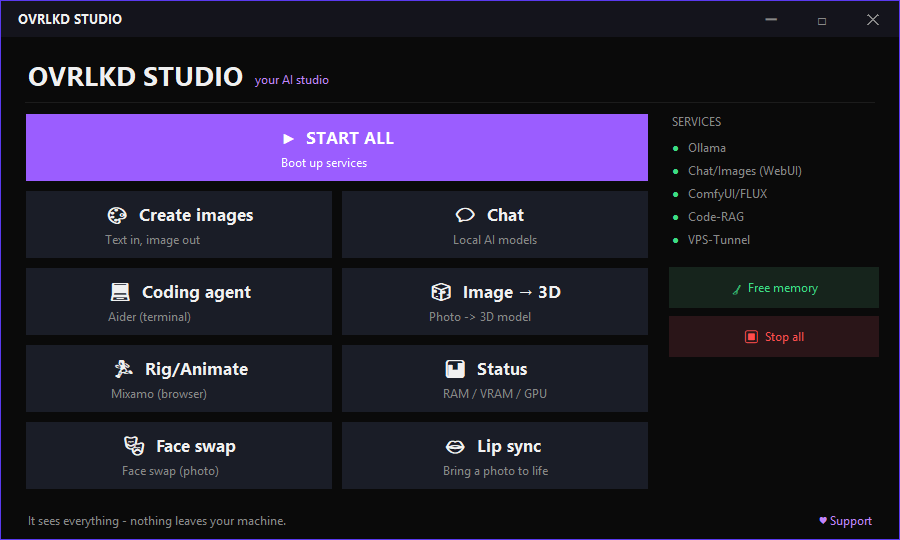
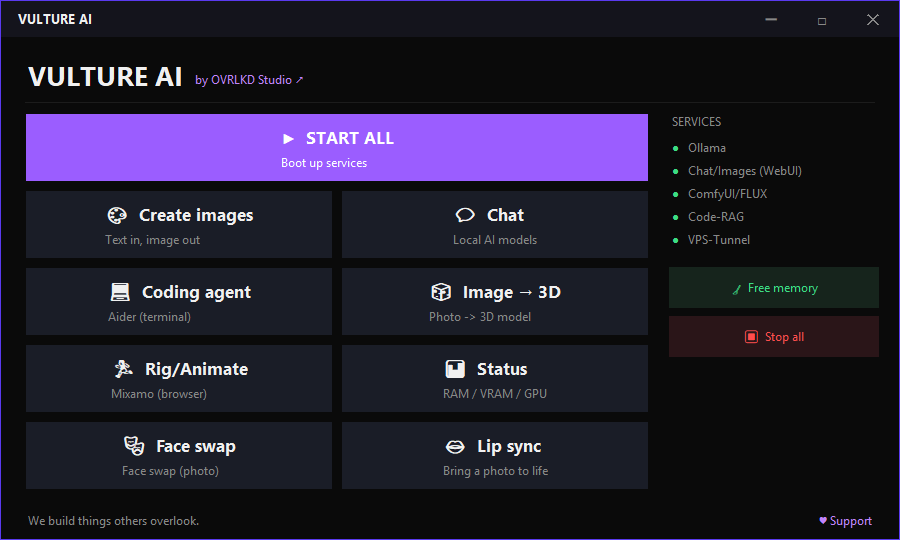
Rebrand app to Vulture AI (by OVRLKD Studio); portable .cmd launchers + helpers via batenv; branded screenshot

Changed region(s): [[0.0311, 0.1185, 0.3733, 0.1778], [0.0311, 0.9481, 0.3111, 0.9778], [0.0, 0.0, 0.1556, 0.0593]]

diff --git a/vulture/batenv.py b/vulture/batenv.py
@@ -1,0 +1,77 @@
+# -*- coding: utf-8 -*-
+"""Emit ``set "VAR=value"`` lines so the ``.cmd`` launchers get portable paths.
+
+Batch files cannot read ``config.json`` nor scan the drives for a ComfyUI /
+Ollama / Python install, so every OVRLKD ``.cmd`` sources this tiny helper at
+the top::
+
+    set "PYEXE=python"
+    where python >nul 2>nul || set "PYEXE=%LOCALAPPDATA%\\Programs\\Python\\Python311\\python.exe"
+    for /f "usebackq delims=" %%L in (`"%PYEXE%" "%~dp0vulture\\batenv.py" 2^>nul`) do %%L
+
+After that loop the launcher can use ``%COMFY_PY%``, ``%OUTPUT_DIR%``,
+``%OLLAMA_MODELS%``, ``%COMFY_PORT%`` etc. -- all resolved by
+:mod:`vulture.config` (built-in defaults <- auto-detect <- ``config.json``), so a
+fresh clone works on any machine.
+
+Only ``set "..."`` lines are written to *stdout*; any diagnostics go to
+*stderr* (which the launchers redirect to ``nul``) so they never pollute the
+batch ``for /f`` capture.  The helper never raises out to the launcher: on any
+failure it prints nothing and exits non-zero, leaving the variables unset so the
+``.cmd`` can fall back / fail loudly on its own.
+"""
+from __future__ import annotations
+
+import os
+import sys
+
+# Make the ``vulture`` package importable no matter the current directory
+# (the launchers call us as "%~dp0vulture\batenv.py" from wherever they run).
+_REPO_ROOT = os.path.dirname(os.path.dirname(os.path.abspath(__file__)))
+if _REPO_ROOT not in sys.path:
+    sys.path.insert(0, _REPO_ROOT)
+
+from vulture.config import get_config
+
+
+def _emit(name: str, value: object) -> str:
+    """Return one batch ``set "NAME=VALUE"`` line (quoted -> spaces are safe)."""
+    return f'set "{name}={value}"'
+
+
+def main() -> int:
+    cfg = get_config()
+
+    # name -> resolved value.  Paths come out OS-normalised (back slashes on
+    # Windows); ports are plain integers.  Order is cosmetic only.
+    pairs = [
+        # -- filesystem paths --
+        ("COMFY_PY",      cfg.comfy_python),
+        ("COMFY_DIR",     cfg.comfy_dir),
+        ("OUTPUT_DIR",    cfg.output_dir),
+        ("OLLAMA_MODELS", cfg.ollama_models_dir),
+        ("OLLAMA_EXE",    cfg.ollama_exe),
+        ("AIDER_PY",      cfg.aider_python),
+        ("SYSTEM_PY",     cfg.system_python),
+        ("TOOLS_DIR",     cfg.tools_dir),
+        # -- ports --
+        ("COMFY_PORT",    cfg.comfy_port),
+        ("WEBUI_PORT",    cfg.webui_port),
+        ("RAG_PORT",      cfg.rag_port),
+        ("TUNNEL_PORT",   cfg.tunnel_port),
+        ("OLLAMA_PORT",   cfg.ollama_port),
+    ]
+
+    # print() -> Windows text mode turns "\n" into CRLF, which batch for/f reads
+    # cleanly.  One "set" per line.
+    for name, value in pairs:
+        print(_emit(name, value))
+    return 0
+
+
+if __name__ == "__main__":
+    try:
+        sys.exit(main())
+    except Exception as exc:  # never take the launcher down with us
+        print(f"[batenv] {exc}", file=sys.stderr)
+        sys.exit(1)

diff --git a/vulture/config.py b/vulture/config.py
@@ -291,6 +291,30 @@ def _detect_tripo(drives: List[str]) -> Dict[str, str]:
     return {}
 
 
+def _detect_aider_python(drives: List[str]) -> str:
+    """Locate the Python of an optional Aider coding-agent venv.
+
+    Mirrors the ``ai-coder\\venv`` layout the KI-Coder launcher expects; falls
+    back to a few common variants so a fresh clone finds it without editing
+    ``config.json``.
+    """
+    home = os.path.expanduser("~")
+    rel = [
+        r"ai-coder\venv\Scripts\python.exe",
+        r"ai-coder\.venv\Scripts\python.exe",
+        r"aider\venv\Scripts\python.exe",
+    ]
+    candidates: List[str] = []
+    for d in drives:
+        candidates += [os.path.join(d, r) for r in rel]
+    candidates += [
+        os.path.join(home, "ai-coder", "venv", "Scripts", "python.exe"),
+        # POSIX venvs (for completeness on non-Windows)
+        *[os.path.join(d, "ai-coder", "venv", "bin", "python") for d in drives],
+    ]
+    return _first_existing(candidates)
+
+
 def _detect_tools_dir(drives: List[str]) -> str:
     """Locate the optional ``ai-memory-tools`` folder (WebUI / Code-RAG launchers)."""
     home = os.path.expanduser("~")
@@ -331,6 +355,10 @@ def autodetect() -> Dict[str, Any]:
     sys_py = _detect_system_python()
     if sys_py:
         paths["system_python"] = sys_py
+
+    aider_py = _detect_aider_python(drives)
+    if aider_py:
+        paths["aider_python"] = aider_py
 
     tools = _detect_tools_dir(drives)
     if tools:
@@ -768,6 +796,7 @@ if __name__ == "__main__":
         ("ollama_exe", cfg.ollama_exe),
         ("ollama_models_dir", cfg.ollama_models_dir),
         ("system_python", cfg.system_python),
+        ("aider_python", cfg.aider_python),
         ("tripo_dir", cfg.tripo_dir),
         ("host", cfg.host),
         ("comfy_api", cfg.comfy_api),

diff --git a/studio.py b/studio.py
@@ -380,7 +380,7 @@ def generate(engine, model_file, prompt, w, h, hires, on_status, on_image):
         on_status(f"Error: {e}")
 
 # ---------------- GUI ----------------
-root=tk.Tk(); root.title("OVRLKD Studio AI"); root.configure(bg=BG)
+root=tk.Tk(); root.title("Vulture AI"); root.configure(bg=BG)
 root.geometry("900x540+140+80"); root.minsize(820,500); root.resizable(True,True)
 
 # --- Dark-purple ttk.Combobox theming: field + readonly state + dropdown popup ---
@@ -479,12 +479,13 @@ def open_support_window():
     link=tk.Label(win,text=SUPPORT_URL,font=small_f,bg=BG,fg=SUB,cursor="hand2")
     link.pack(pady=(10,12)); link.bind("<Button-1>",lambda e:webbrowser.open(SUPPORT_URL))
 
-make_frameless(root, "OVRLKD STUDIO", root.destroy)
+make_frameless(root, "VULTURE AI", root.destroy)
 
 # ---- Kopfzeile ----
 head=tk.Frame(root,bg=BG); head.pack(fill="x",padx=24,pady=(16,6))
-tk.Label(head,text="OVRLKD STUDIO",font=title_f,bg=BG,fg=FG).pack(side="left")
-tk.Label(head,text="  your AI studio",font=sub_f,bg=BG,fg=ACCENT_LT).pack(side="left",pady=(10,0))
+tk.Label(head,text="VULTURE AI",font=title_f,bg=BG,fg=FG).pack(side="left")
+_by=tk.Label(head,text="  by OVRLKD Studio ↗",font=sub_f,bg=BG,fg=ACCENT_LT,cursor="hand2"); _by.pack(side="left",pady=(10,0))
+_by.bind("<Button-1>",lambda e:webbrowser.open("https://www.overlkd.com"))
 tk.Frame(root,bg=DIV,height=1).pack(fill="x",padx=24,pady=(0,2))
 
 # ---- Fusszeile: rotierender Slogan + dezenter Support-Link ----
@@ -564,7 +565,7 @@ def open_generator():
     win=tk.Toplevel(root); win.title("OVRLKD - Create images"); win.configure(bg=BG)
     win.geometry("760x860"); win.minsize(560,640); win.resizable(True,True)
     win.lift(); win.focus_force()
-    make_frameless(win, "OVRLKD - Create images", win.destroy)
+    make_frameless(win, "Vulture AI — Create images", win.destroy)
     win._last_path=None; win._pil=None
     tk.Label(win,text="\U0001f3a8 Create images",font=title_f,bg=BG,fg=FG).pack(pady=(14,8))
 
@@ -685,7 +686,7 @@ def open_3d_window():
         _open_cmd(os.path.join(cfg.tripo_dir, "1-Setup-3D-installieren.cmd")); return
     win=tk.Toplevel(root); win.title("OVRLKD - Image to 3D"); win.configure(bg=BG)
     win.geometry("560x640"); win.lift(); win.focus_force()
-    make_frameless(win, "OVRLKD - Image to 3D", win.destroy)
+    make_frameless(win, "Vulture AI — Image to 3D", win.destroy)
     win._img=None
     tk.Label(win,text="\U0001f9ca Image → 3D model",font=title_f,bg=BG,fg=FG).pack(pady=(14,4))
     tk.Label(win,text="Select image → options → create 3D (.obj for Mixamo/Meshy)",font=small_f,bg=BG,fg=SUB).pack(pady=(0,8))
@@ -749,7 +750,7 @@ def open_faceswap_window():
     from PIL import Image, ImageTk
     win=tk.Toplevel(root); win.title("OVRLKD - Face swap"); win.configure(bg=BG)
     win.geometry("640x760"); win.minsize(560,680); win.lift(); win.focus_force()
-    make_frameless(win, "OVRLKD - Face swap", win.destroy)
+    make_frameless(win, "Vulture AI — Face swap", win.destroy)
     win._src=None; win._tgt=None; win._last=None
     tk.Label(win,text="\U0001f3ad Face swap",font=title_f,bg=BG,fg=FG).pack(pady=(14,2))
     tk.Label(win,text="Your face (1) goes onto the target image (2). Runs 100% offline.",font=small_f,bg=BG,fg=SUB).pack(pady=(0,8))
@@ -820,7 +821,7 @@ def open_lipsync_window():
     from PIL import Image, ImageTk
     win=tk.Toplevel(root); win.title("OVRLKD - Lip sync"); win.configure(bg=BG)
     win.geometry("640x620"); win.minsize(560,560); win.lift(); win.focus_force()
-    make_frameless(win, "OVRLKD - Lip sync", win.destroy)
+    make_frameless(win, "Vulture AI — Lip sync", win.destroy)
     win._src=None; win._drv=None; win._last=None
     tk.Label(win,text="\U0001f444 Lip sync",font=title_f,bg=BG,fg=FG).pack(pady=(14,2))
     tk.Label(win,text="Photo (1) is brought to life by a driving video (2) - expressions, lips, head. Audio is carried over.",

diff --git a/coding-orchestrator.py b/coding-orchestrator.py
@@ -6,8 +6,13 @@
 # Aufruf: python coding-orchestrator.py "<projektordner>" "<aufgabe>" [coder-modell] [planer-modell]
 import sys, os, json, subprocess, urllib.request, re
 
-OLLAMA = "http://127.0.0.1:11434"
-AIDER_PY = r"D:\ai-coder\venv\Scripts\python.exe"
+# Portable paths/ports from the shared config (auto-detect + config.json).
+sys.path.insert(0, os.path.dirname(os.path.abspath(__file__)))  # find the vulture pkg
+from vulture.config import get_config
+cfg = get_config()
+
+OLLAMA = cfg.ollama_api                 # was "http://127.0.0.1:11434"
+AIDER_PY = cfg.aider_python             # was r"D:\ai-coder\venv\Scripts\python.exe"
 CODE_EXTS = (".html",".htm",".css",".js",".ts",".jsx",".tsx",".vue",".py",".json",".md",".svelte")
 
 def ollama_gen(model, system, prompt, num_ctx=8192, num_predict=1600):

diff --git a/auto-tune-ctx.py b/auto-tune-ctx.py
@@ -2,7 +2,7 @@
 # Laeuft bei jedem KI-Coder-Start -> GPU getauscht = automatisch mehr Kontext.
 import subprocess, os
 
-SETTINGS = r"C:\Users\User\.aider.model.settings.yml"
+SETTINGS = os.path.join(os.path.expanduser("~"), ".aider.model.settings.yml")
 
 def gpu_info():
     try: